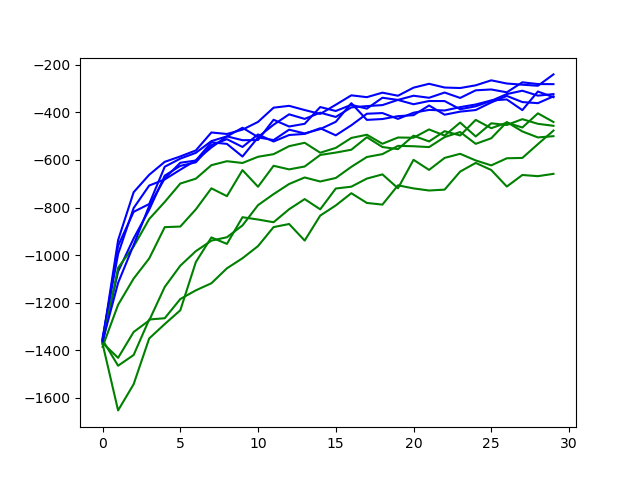
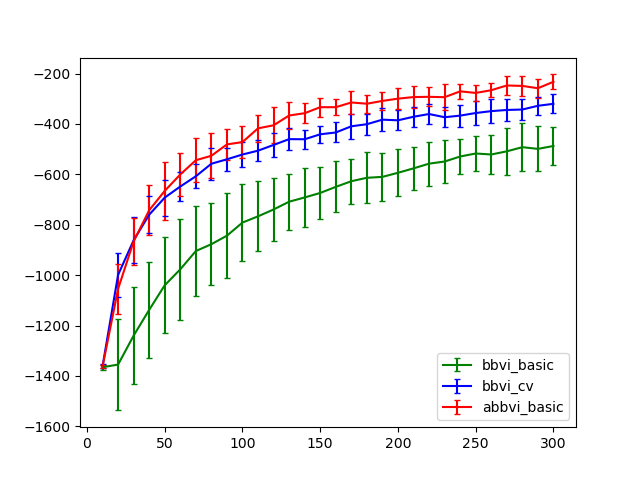
2020/1/5

diff --git a/bbvi_mushrooms/plot.py b/bbvi_mushrooms/plot.py
@@ -5,7 +5,7 @@ bbvi_basic=[]
 bbvi_cv=[]
 abbvi_basic=[]
 
-num=5
+num=10
 interval=10
 iter_perEpoch=24
 
@@ -14,9 +14,9 @@ for i in range(num):
     bbvi_basic.append(np.load('./elbos/bbvi_basic/{:}.npy'.format(i)))
     bbvi_cv.append(np.load('./elbos/bbvi_cv/{:}.npy'.format(i)))
     abbvi_basic.append(np.load('./elbos/abbvi_basic/{:}.npy'.format(i)))
-bbvi_basic=np.array(bbvi_basic)
-bbvi_cv=np.array(bbvi_cv)
-abbvi_basic=np.array(abbvi_basic)
+bbvi_basic=np.array(bbvi_basic)[:,0:120:4]
+bbvi_cv=np.array(bbvi_cv)[:,0:120:4]
+abbvi_basic=np.array(abbvi_basic)[:,0:120:4]
 
 bbvi_basic_mean=np.mean(bbvi_basic,0)
 bbvi_cv_mean=np.mean(bbvi_cv,0)
@@ -31,16 +31,12 @@ plt.errorbar(x=x,y=bbvi_basic_mean,yerr=bbvi_basic_std,color='g',capsize=2,label
 plt.errorbar(x=x,y=bbvi_cv_mean,yerr=bbvi_cv_std,color='b',capsize=2,label='bbvi_cv')
 plt.errorbar(x=x,y=abbvi_basic_mean,yerr=abbvi_basic_std,color='r',capsize=2,label='abbvi_basic')
 plt.legend()
-
-
-
-'''
-plt.plot(bbvi_basic_mean,color='g')
-plt.plot(bbvi_cv_mean,color='b')
-plt.plot(abbvi_basic_mean,color='r')
 '''
 
-'''
+
+
+
+
 for  i in range(num):
     plt.plot(bbvi_basic[i],color='g')
     plt.plot(bbvi_cv[i],color='b')

diff --git a/bbvi_mushrooms/control.py b/bbvi_mushrooms/control.py
@@ -1,10 +1,10 @@
 import os
 
-for i in range(0,5):
+for i in range(5,10):
     print('bbvi_basic')
-    #os.system('python bbvi_basic.py ./elbos/bbvi_basic/{:}.npy'.format(i))
+    os.system('python bbvi_basic.py ./elbos/bbvi_basic/{:}.npy'.format(i))
     print('bbvi_cv')
-    #os.system('python bbvi_cv.py ./elbos/bbvi_cv/{:}.npy'.format(i))
+    os.system('python bbvi_cv.py ./elbos/bbvi_cv/{:}.npy'.format(i))
     print('abbvi_basic')
     os.system('python abbvi_basic.py ./elbos/abbvi_basic/{:}.npy'.format(i))
     
